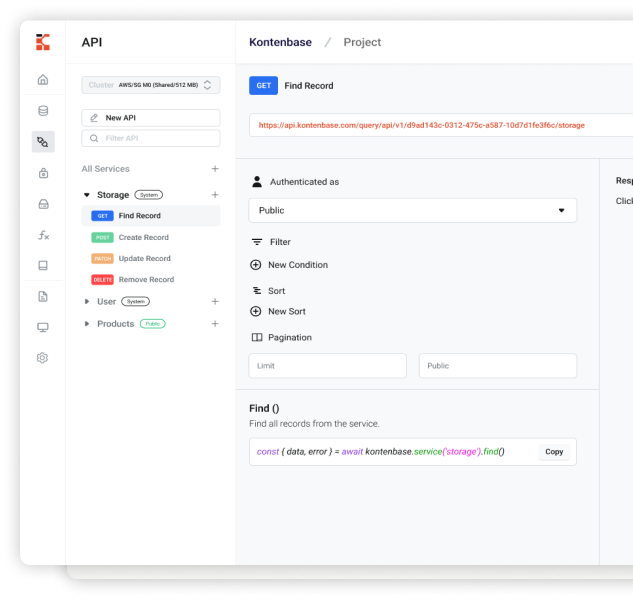
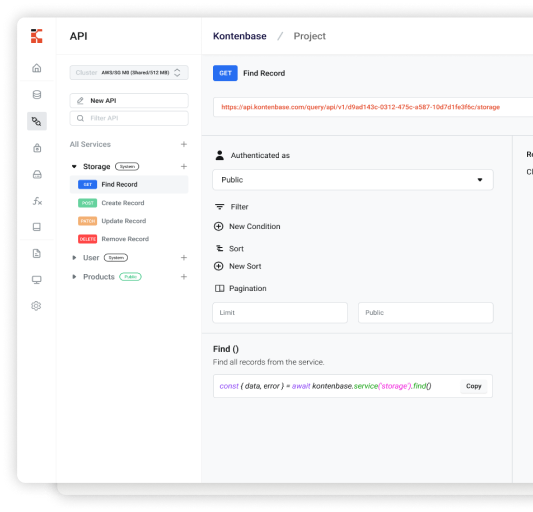
fix: update feature preview
- carousel in hero
- video preview for highlighted features

diff --git a/app/contents/home/feature-preview.tsx b/app/contents/home/feature-preview.tsx
@@ -1,0 +1,82 @@
+/* eslint-disable react/jsx-no-bind */
+import { Dialog, Fragment, Transition, VideoYouTube } from "~/components";
+import { useState } from "~/hooks";
+
+interface Props {
+  image: string;
+  imageAlt: string;
+  youtubeId: string;
+}
+
+export const FeaturePreview = ({ image, imageAlt, youtubeId }: Props) => {
+  const [isOpen, setIsOpen] = useState(false);
+
+  function closeModal() {
+    setIsOpen(false);
+  }
+
+  function openModal() {
+    setIsOpen(true);
+  }
+
+  return (
+    <div className="card-shadow p-1">
+      <div className="flex items-center justify-center">
+        <img src={image} alt={imageAlt} className="w-full rounded-base" />
+        <div
+          role="button"
+          tabIndex={0}
+          onClick={openModal}
+          onKeyPress={openModal}
+          className="pointer group absolute flex items-center"
+        >
+          <img
+            src="/assets/images/play-button.svg"
+            alt="Play Introduction Video"
+            width={100}
+            className="transition duration-100 ease-in-out group-hover:scale-110"
+          />
+        </div>
+      </div>
+
+      <Transition appear show={isOpen} as={Fragment}>
+        <Dialog as="div" className="relative z-10" onClose={closeModal}>
+          <Transition.Child
+            as={Fragment}
+            enter="ease-out duration-300"
+            enterFrom="opacity-0"
+            enterTo="opacity-100"
+            leave="ease-in duration-200"
+            leaveFrom="opacity-100"
+            leaveTo="opacity-0"
+          >
+            <div className="bg-primary-transparent fixed inset-0" />
+          </Transition.Child>
+
+          <div className="fixed inset-0 overflow-y-auto">
+            <div className="flex min-h-full items-center justify-center p-4 text-center">
+              <Transition.Child
+                as={Fragment}
+                enter="ease-out duration-300"
+                enterFrom="opacity-0 scale-95"
+                enterTo="opacity-100 scale-100"
+                leave="ease-in duration-200"
+                leaveFrom="opacity-100 scale-100"
+                leaveTo="opacity-0 scale-95"
+              >
+                <Dialog.Panel className="bg-panel shadow-primary stack-v w-full max-w-4xl transform gap-4 overflow-hidden rounded-base p-2 transition-all">
+                  <div className="relative overflow-auto rounded-base">
+                    <VideoYouTube
+                      title="Kontenbase v2 Quick Look"
+                      embedId={youtubeId}
+                    />
+                  </div>
+                </Dialog.Panel>
+              </Transition.Child>
+            </div>
+          </div>
+        </Dialog>
+      </Transition>
+    </div>
+  );
+};

diff --git a/app/contents/home/intro.tsx b/app/contents/home/intro.tsx
@@ -1,10 +1,13 @@
+import { Carousel } from "flowbite-react";
+
 import { Image } from "~/components";
 import { ButtonGroupCTA } from "~/contents";
+import { carouselList } from "~/data";
 
 export const HomeIntro = () => {
   return (
-    <section className="stack-v lg:stack-h hero relative gap-6 pt-5 pb-20 lg:pb-40 lg:pt-20">
-      <section className="stack-v layout-padding grow gap-3">
+    <section className="stack-v xl:stack-h hero layout-padding g:gap-10 relative gap-6 pt-5 pb-20 xl:pb-40 xl:pt-20">
+      <section className="stack-v gap-3">
         <div className="layout-content small">
           <Image src="/assets/icons/hero-blink.svg" alt="hero" />
           <h1 className="h0 special max-w-[415px] sm:max-w-[680px]">
@@ -23,12 +26,19 @@ export const HomeIntro = () => {
 
         <ButtonGroupCTA />
       </section>
-      <section className="grow lg:max-w-lg xl:max-w-xl">
-        <Image
+      <section className="hero-carousel flex grow justify-end">
+        <div className="h-full w-full xl:max-w-3xl">
+          <Carousel slideInterval={5000}>
+            {carouselList.map((item) => (
+              <Image key={item.id} src={item.image} alt={item.label} />
+            ))}
+          </Carousel>
+        </div>
+        {/* <Image
           src="/assets/images/hero-image.png"
           alt="kontenbase-hero"
           className="w-full"
-        />
+        /> */}
       </section>
     </section>
   );

diff --git a/app/data/highlighted-features.ts b/app/data/highlighted-features.ts
@@ -4,22 +4,24 @@ export const dataHighlightedFeatures = [
       'Focus on <span class="highlighted-word">Data Driven</span> that help you analyze business better',
     description:
       "Bring all your data together to be managed, analyzed in sync.",
-    specialWord: "Data Driven",
     image: "/assets/images/features/data-table.png",
+    imageAlt: "Data",
+    youtubeId: "Fe3qAEhjSvw",
   },
   {
     title: 'Create <span class="highlighted-word">custom App</span> easily',
     description:
       "Create custom app super fast, with our no code technology to give every department relevant information they needs, and simple way to take action.",
-    specialWord: "custom App",
     image: "/assets/images/features/custom-app.png",
+    imageAlt: "App Builder",
+    youtubeId: "wEVasLcvUJM",
   },
   {
     title:
       '<span class="highlighted-word special">Custom workflow</span> for progressive company',
     description:
       "Discover deep integration such as emailing, payment gateway, and any extension that automate your business workflows.",
-    specialWord: "Custom workflow",
     image: "/assets/images/features/automation.png",
+    imageAlt: "Automation",
   },
 ];

diff --git a/app/contents/home/highlighted-features.tsx b/app/contents/home/highlighted-features.tsx
@@ -1,3 +1,5 @@
+import { FeaturePreview } from "./feature-preview";
+
 import { Image } from "~/components";
 import { dataHighlightedFeatures } from "~/data";
 
@@ -23,6 +25,8 @@ interface Feature {
   title: string;
   description: string;
   image: string;
+  imageAlt: string;
+  youtubeId?: string;
 }
 
 interface ExcellentFeatureSectionProps {
@@ -49,11 +53,19 @@ export const HighlightedFeatureSection = ({
         <p>{feature.description}</p>
       </div>
       <div className="grow">
-        <Image
-          src={feature.image}
-          alt={feature.title}
-          className="card-shadow p-1"
-        />
+        {feature?.youtubeId ? (
+          <FeaturePreview
+            image={feature.image}
+            imageAlt={feature.imageAlt}
+            youtubeId={feature.youtubeId}
+          />
+        ) : (
+          <Image
+            src={feature.image}
+            alt={feature.imageAlt}
+            className="card-shadow p-1"
+          />
+        )}
       </div>
     </section>
   );

diff --git a/tailwind.config.js b/tailwind.config.js
@@ -2,7 +2,11 @@ const colors = require("tailwindcss/colors");
 const plugin = require("tailwindcss/plugin");
 
 module.exports = {
-  content: ["./app/**/*.tsx", "./node_modules/@vechaiui/**/*.{js,jsx,ts,tsx}"],
+  content: [
+    "./app/**/*.tsx",
+    "./node_modules/@vechaiui/**/*.{js,jsx,ts,tsx}",
+    "node_modules/flowbite-react/**/*.{js,jsx,ts,tsx}",
+  ],
   darkMode: "class",
   theme: {
     colors,
@@ -146,6 +150,7 @@ module.exports = {
     },
   },
   plugins: [
+    require("flowbite/plugin"),
     require("tailwindcss-radix")(),
     // require("@tailwindcss/aspect-ratio"),
     require("@tailwindcss/typography"),

diff --git a/app/contents/home/ideas.tsx b/app/contents/home/ideas.tsx
@@ -5,7 +5,7 @@ import { dataIdeaSample } from "~/data";
 
 export const HomeIdeas = () => {
   return (
-    <section className="stack-v-center layout-padding mb-20">
+    <section className="stack-v-center layout-padding mb-20 mt-20">
       <div className="mb-2 text-center lg:mb-6">
         <h1 className="mb-2">
           <span className="highlighted-word">Create</span> anything,{" "}

diff --git a/app/data/intro-carousel.ts b/app/data/intro-carousel.ts
@@ -1,0 +1,17 @@
+export const carouselList = [
+  {
+    id: 0,
+    image: "/assets/images/intro/data.png",
+    label: "Data",
+  },
+  {
+    id: 1,
+    image: "/assets/images/intro/app-builder.png",
+    label: "App Builder",
+  },
+  {
+    id: 2,
+    image: "/assets/images/intro/automation.png",
+    label: "Automation",
+  },
+];

diff --git a/styles/global.css b/styles/global.css
@@ -149,6 +149,10 @@
     @apply bg-cover bg-center bg-no-repeat dark:bg-none;
   }
 
+  .hero-carousel {
+    @apply h-[230px] md:h-[400px] lg:h-[550px] xl:h-[430px];
+  }
+
   /**
    * Example
    */

diff --git a/app/routes/index.tsx b/app/routes/index.tsx
@@ -18,6 +18,7 @@ export default function Index() {
   return (
     <Layout id="route-index" variant="full">
       <HomeIntro />
+
       <HomeIdeas />
 
       <HighlightedFeatures />

diff --git a/app/data/index.ts b/app/data/index.ts
@@ -16,3 +16,4 @@ export * from "./stacks";
 export * from "./team";
 export * from "./theme";
 export * from "./versus";
+export * from "./intro-carousel";
